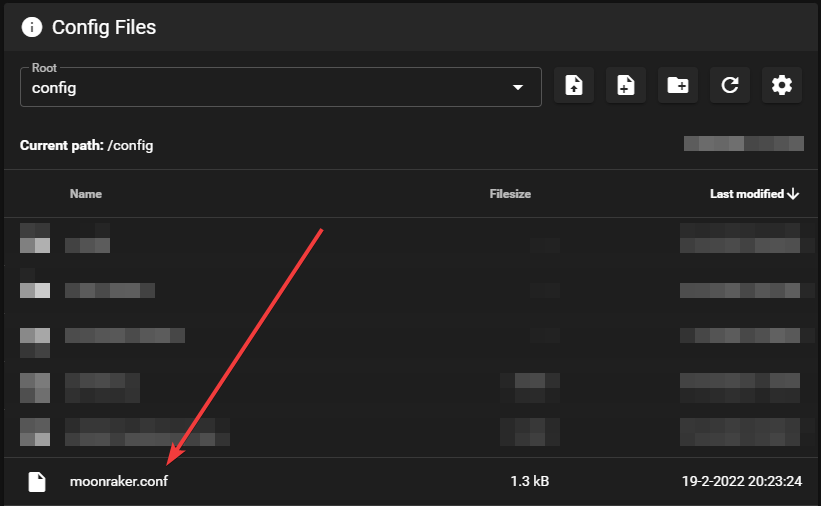
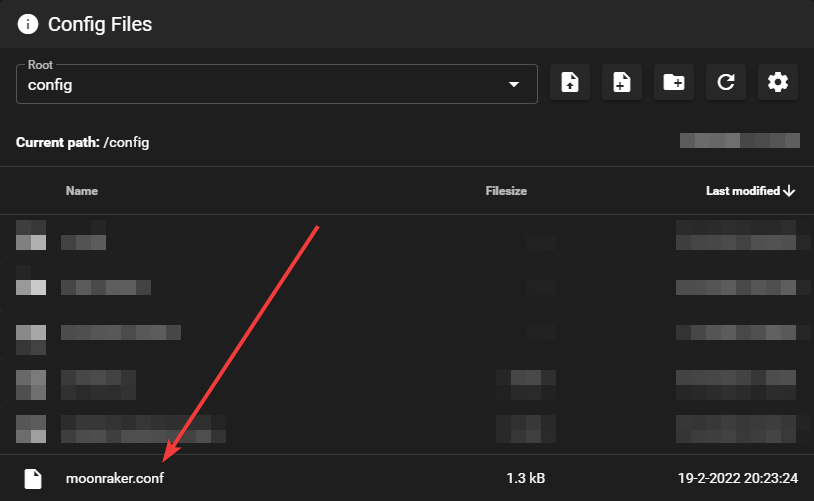
Rounded corners on images + shorter images

diff --git a/docs/_sass/color_schemes/zerog.scss b/docs/_sass/color_schemes/zerog.scss
@@ -21,6 +21,11 @@ $search-background-color: $light-grey-color;
 $table-background-color: $light-grey-color;
 $feedback-color: darken($sidebar-color, 3%);
 
+
+.roundcorners {
+    border-radius: 5px;
+}
+
 .zoom {
     transition: transform .3s; /* Animation */
     margin: 0 auto;

diff --git a/docs/pages/klipper/howto_hardware.md b/docs/pages/klipper/howto_hardware.md
@@ -23,7 +23,7 @@ Not really, you need basic knowledge of SSH (Putty), below you'll find screensho
 
 Connect to your favorite SSH client, in my case PUTTY.
 
-![putty](../../assets/images/howto/theme/step1.png)
+![putty](../../assets/images/howto/theme/step1.png){: class="roundcorners"}
 
 SSH into your Raspberry, your local ip is most likely different to mine.
 
@@ -31,7 +31,7 @@ SSH into your Raspberry, your local ip is most likely different to mine.
 
 This will look something like this
 
-![putty_normal_view](../../assets/images/howto/theme/step2.png)
+![putty_normal_view](../../assets/images/howto/theme/step2.png){: class="roundcorners"}
 
 
 ### SSH Commands
@@ -46,11 +46,11 @@ bash ~/zerog-mainsail-theme/install.sh
 
 After copying and pasting it into your SSH client, you'll notice the following:
 
-![putty_first_paste](../../assets/images/howto/theme/step3.png)
+![putty_first_paste](../../assets/images/howto/theme/step3.png){: class="roundcorners"}
 
 In our text input field we still have a line of code to run, press "ENTER" on your keyboard to run it.
 
-![putty_second_paste](../../assets/images/howto/theme/step4.png)
+![putty_second_paste](../../assets/images/howto/theme/step4.png){: class="roundcorners"}
 
 If you read the text: "Theme has been installed, have fun!" then this part is complete.
 
@@ -58,19 +58,19 @@ If you read the text: "Theme has been installed, have fun!" then this part is co
 
 Open the webclient of your printer and look for the menu on the left, click on "Machine"
 
-![machine_web](../../assets/images/howto/theme/step5.png)
+![machine_web](../../assets/images/howto/theme/step5.png){: class="roundcorners"}
 
 ### Config Files
 
 Look for the file **moonraker.conf**. Once located, click the the text.
 
-![config_files](../../assets/images/howto/theme/step6.png)
+![config_files](../../assets/images/howto/theme/step6.png){: class="roundcorners"}
 
 ## Adding Update Script
 
 Scroll down and locate the text **[update_manager]**.
 
-![update_manager](../../assets/images/howto/theme/step7.png)
+![update_manager](../../assets/images/howto/theme/step7.png){: class="roundcorners"}
 
 Once located add the following code below:
 
@@ -85,27 +85,27 @@ is_system_service: False
 
 Now it should look something like this
 
-![pasted_update_manager](../../assets/images/howto/theme/step8.png)
+![pasted_update_manager](../../assets/images/howto/theme/step8.png){: class="roundcorners"}
 
 
 ### Save & Restart
 
 Click on **Save & Restart**
 
-![save_restart](../../assets/images/howto/theme/step9.png)
+![save_restart](../../assets/images/howto/theme/step9.png){: class="roundcorners"}
 
 
 ### Restart Moonraker
 
 A notification will appear that asks you to **try again**. Click this notification.
 
-![try_again](../../assets/images/howto/theme/step10.png)
+![try_again](../../assets/images/howto/theme/step10.png){: class="roundcorners"}
 
 ### Refresh your browser
 
 Try to refresh your browser, it should show the ZeroG theme.
 
-![refresh](../../assets/images/howto/theme/step11.png)
+![refresh](../../assets/images/howto/theme/step11.png){: class="roundcorners"}
 
 ### Update manager
 
@@ -113,11 +113,11 @@ On the right you'll find the **Update Manager**, you'll notice that **ZeroGTheme
 
 This will allow you to grab the latest updates once we release them for the ZeroG Mainsail Theme.
 
-![update_manager](../../assets/images/howto/theme/step12.png)
+![update_manager](../../assets/images/howto/theme/step12.png){: class="roundcorners"}
 
 
-### Finished!
+### Screenshot
 
 Enjoy your fresh ZeroG Theme.
 
-![full_theme](../../assets/images/howto/theme/step13.png)
+![full_theme](../../assets/images/howto/theme/step13.png){: class="roundcorners"}
